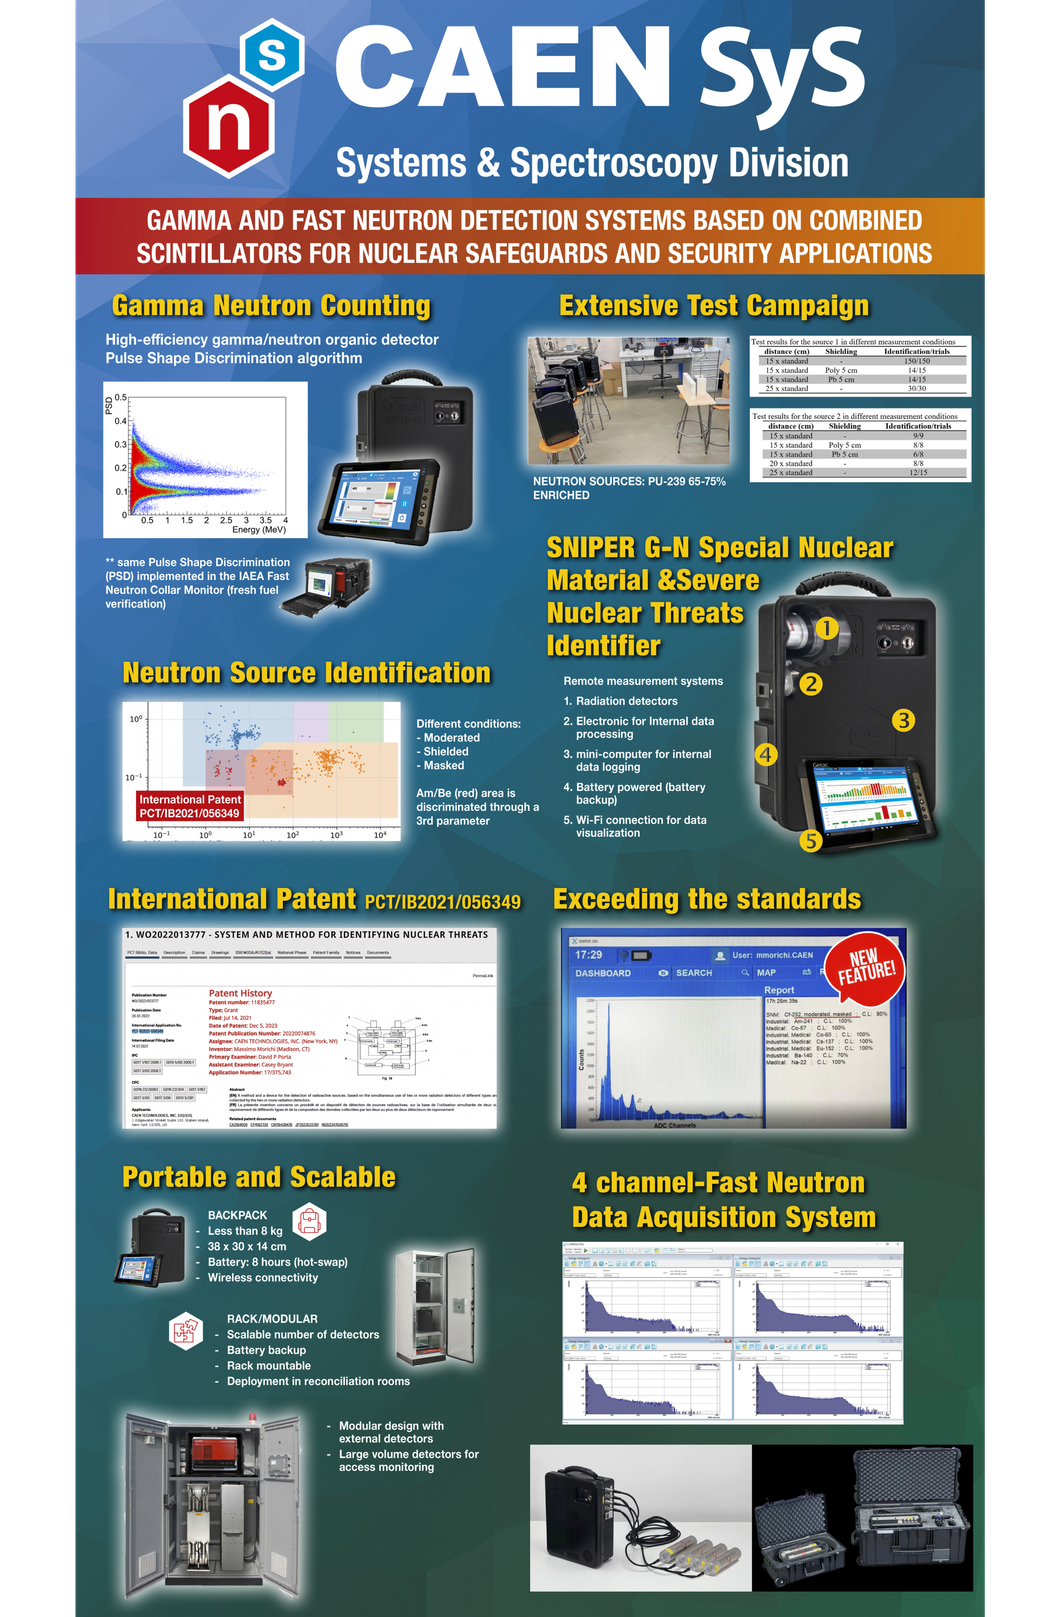
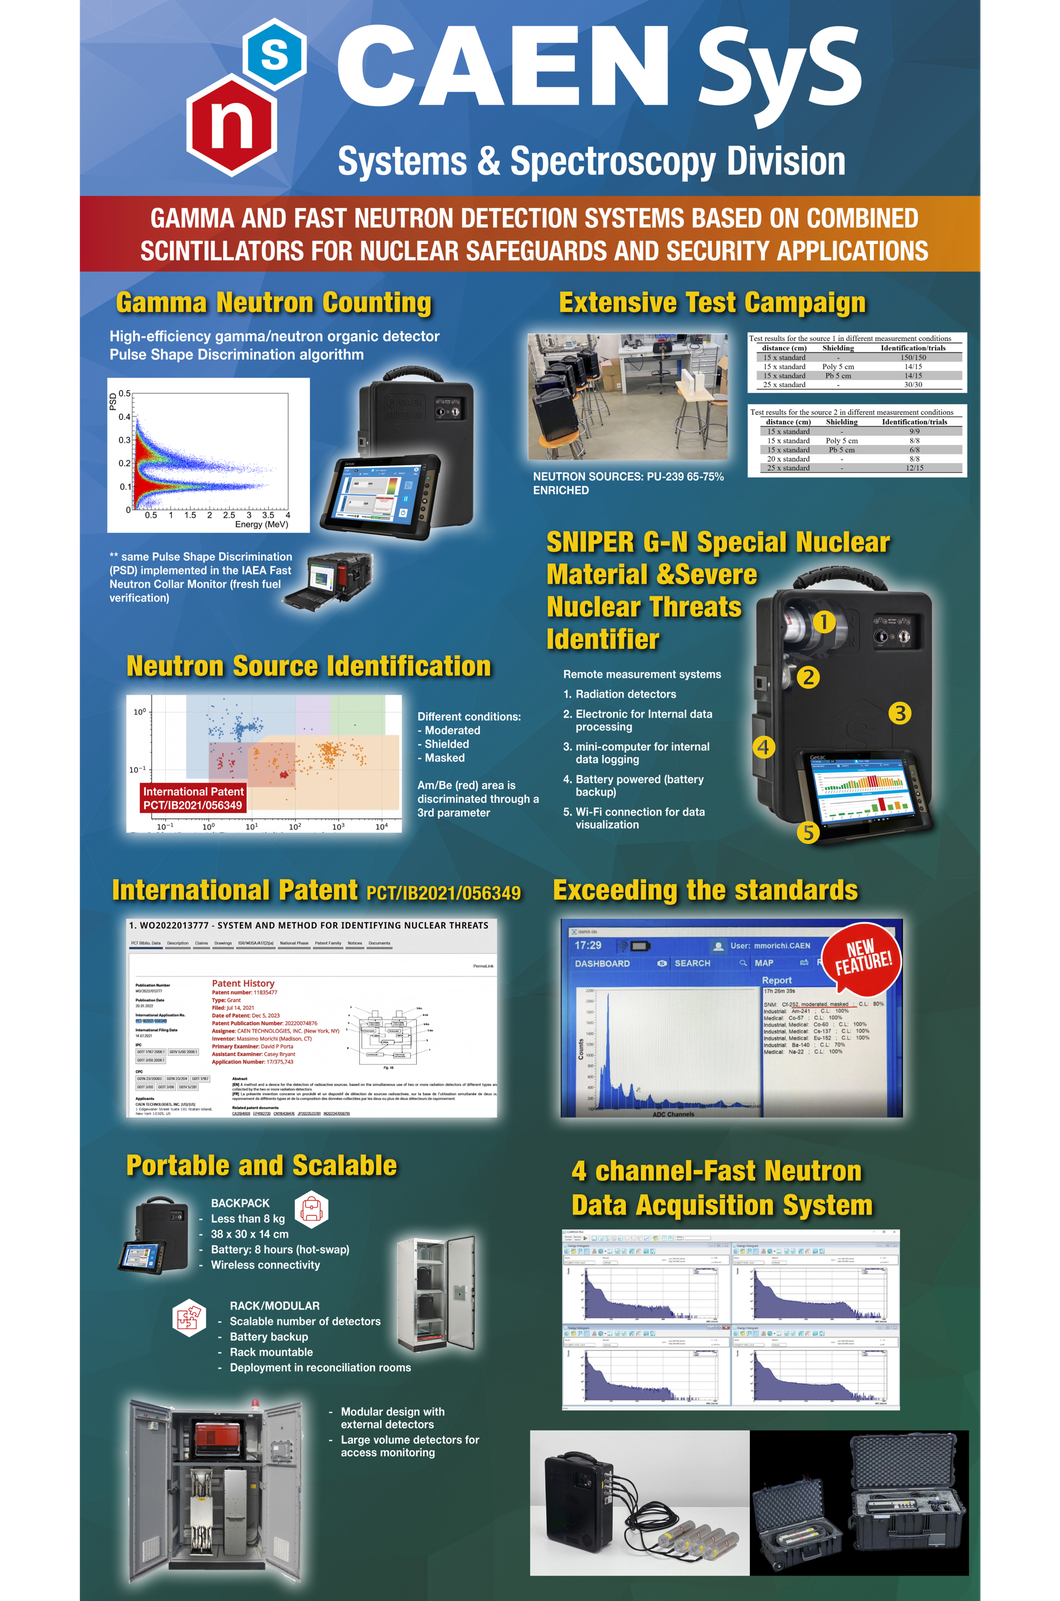
Minor.

diff --git a/pisameet/raster.py b/pisameet/raster.py
@@ -126,7 +126,7 @@ def png_resize_to_height(input_file_path: str, output_file_path: str, height: in
 
 
 def png_horizontal_autocrop(input_file_path: str, output_file_path: str,
-    threshold: float = 0.99, padding=0.01, compression_level=6, max_aspect_ratio=1.525):
+    threshold: float = 0.99, padding=0.01, compression_level=6, max_aspect_ratio=1.51):
     """
     """
     import matplotlib.pyplot as plt
